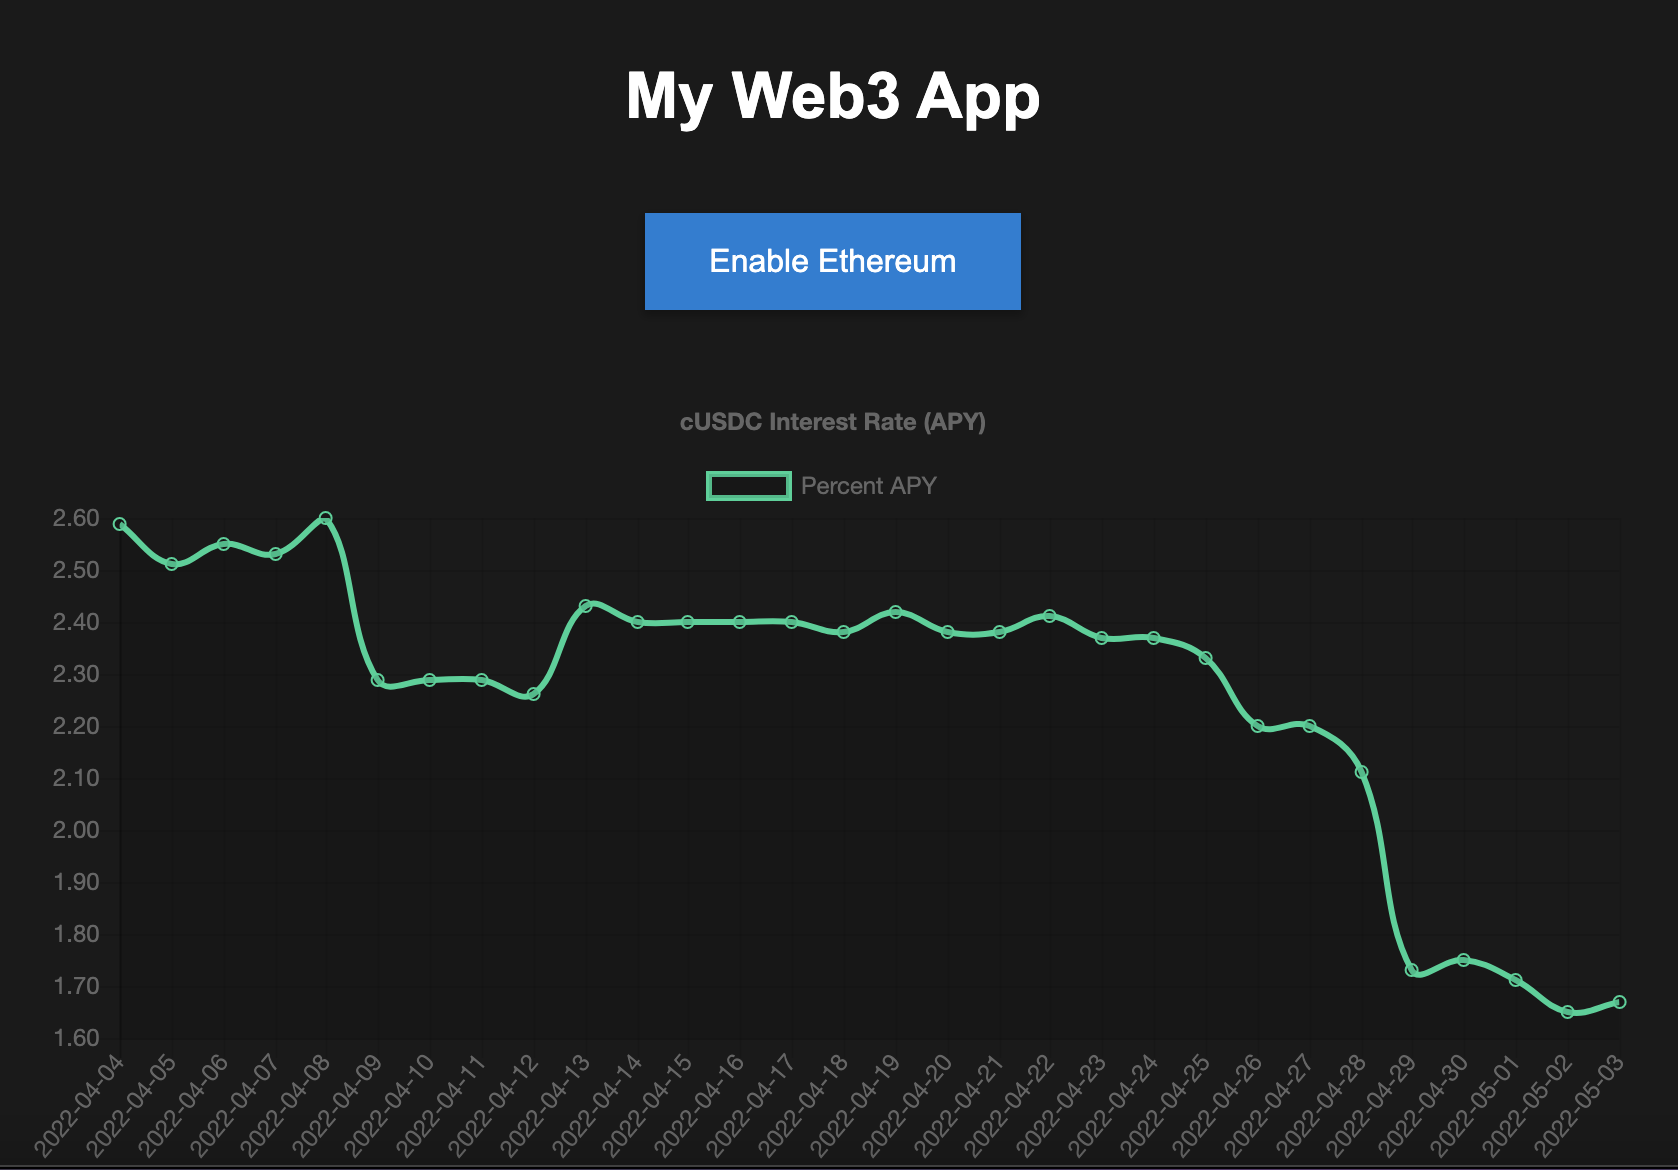
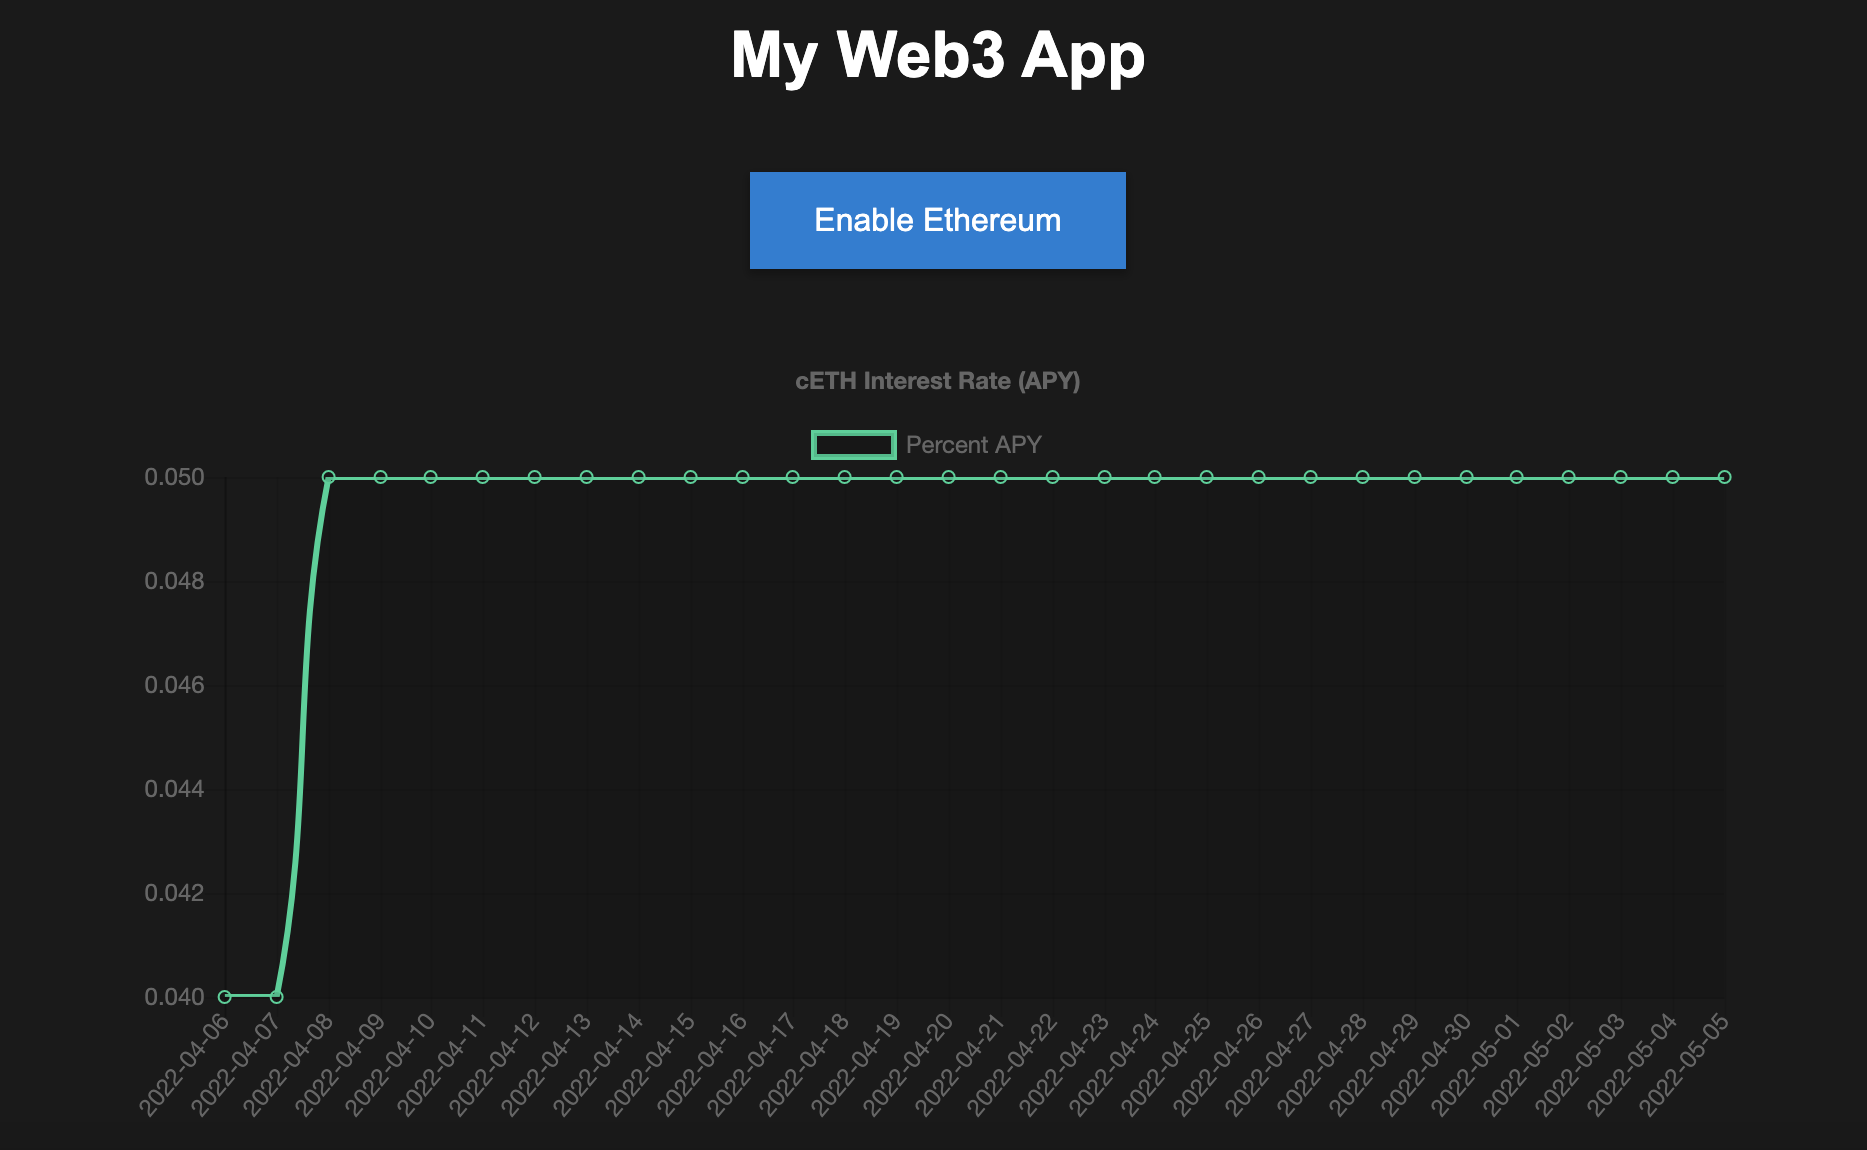
change to ceth

diff --git a/public/app.js b/public/app.js
@@ -83,7 +83,7 @@ window.addEventListener('load', async (event) => {
   const ethApy = await calculateApy('ETH');
   ethApyElement.innerText = ethApy.toFixed(2);
 
-  const res = await fetch('http://localhost:8080/rates/thirty/0x39aa39c021dfbae8fac545936693ac917d5e7563');
+  const res = await fetch('http://localhost:8080/rates/thirty/' + Compound.util.getAddress(Compound.cETH));
   const rawRates = await res.json();
 
   const ratesInApy = getApys(rawRates);
@@ -103,7 +103,7 @@ window.addEventListener('load', async (event) => {
     options: {
       title: {
         display: true,
-        text: 'cUSDC Interest Rate (APY)'
+        text: 'cETH Interest Rate (APY)'
       }
     }
   });
